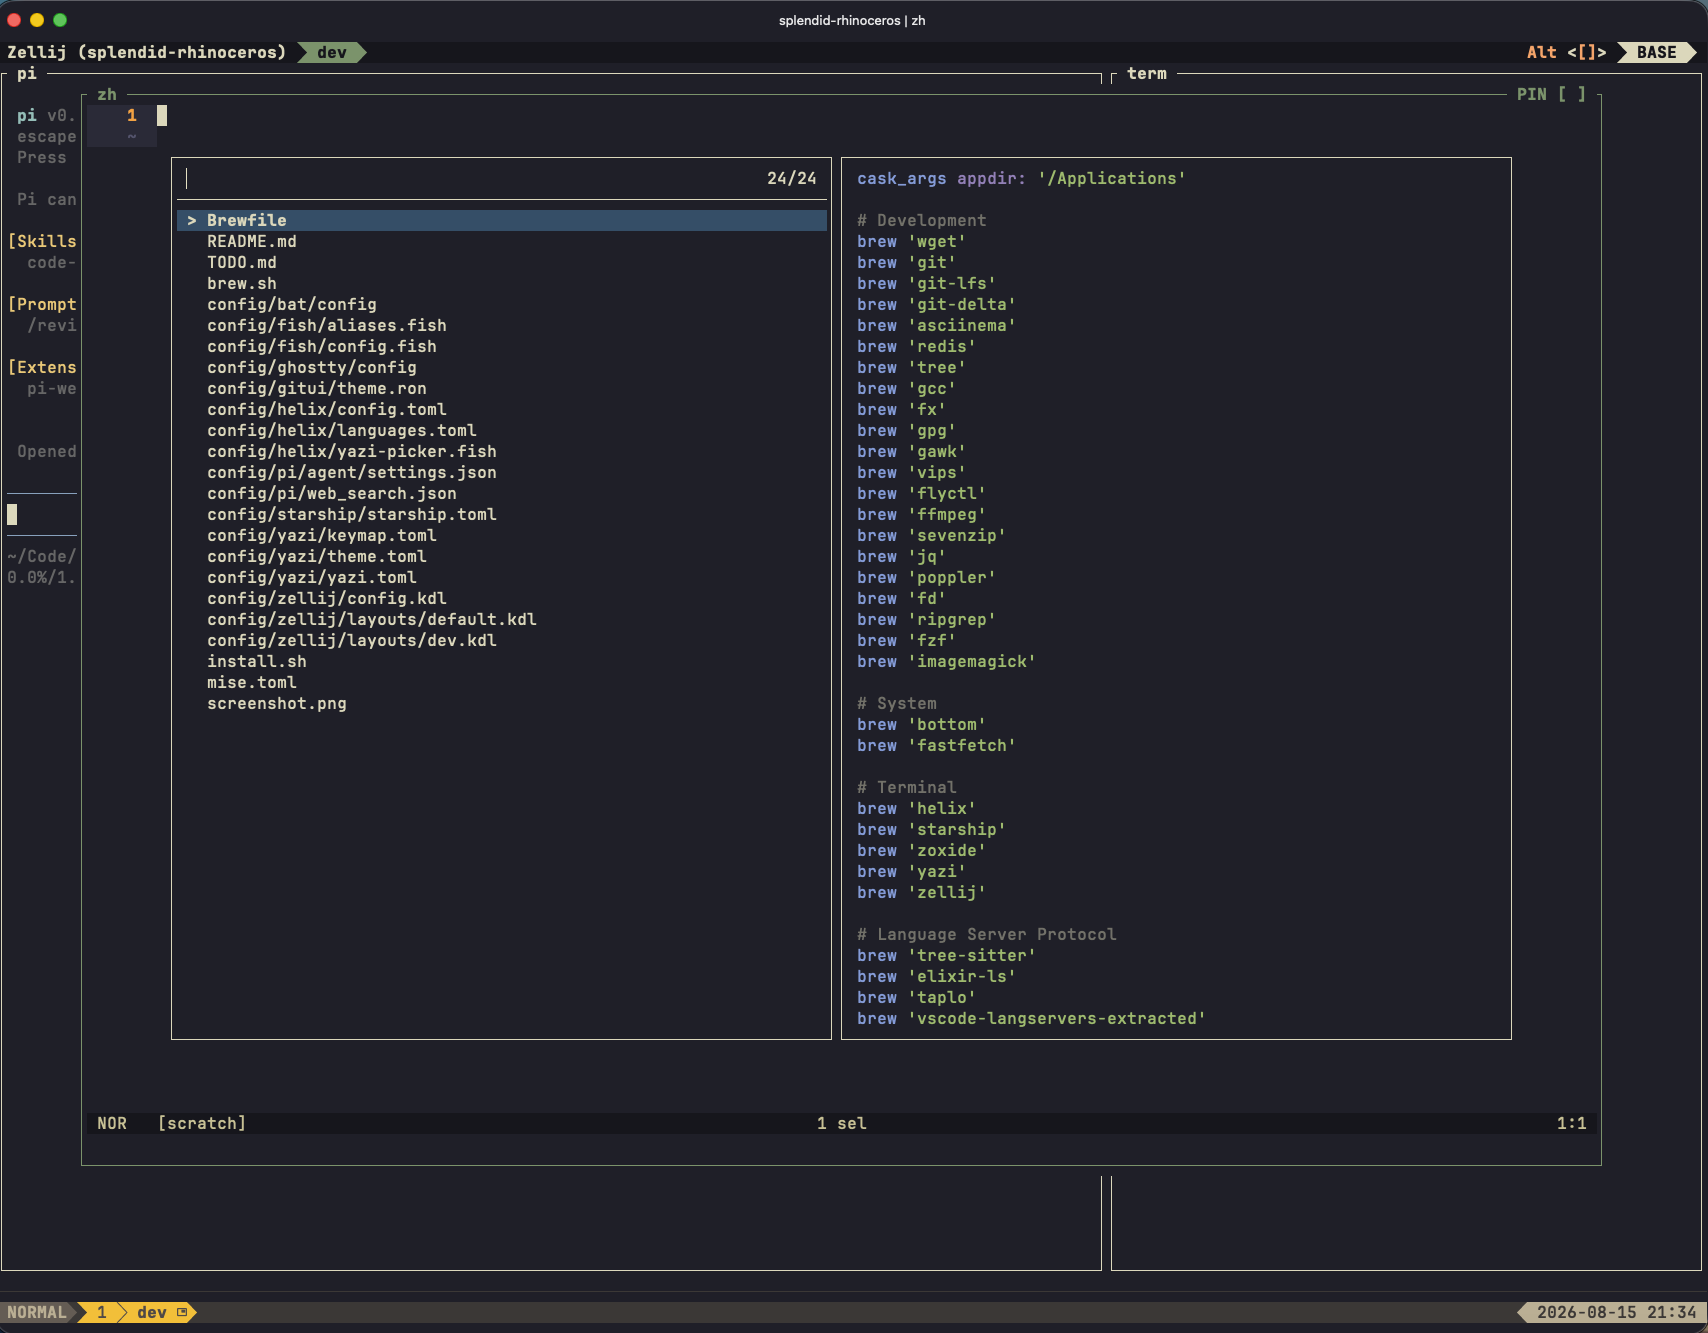
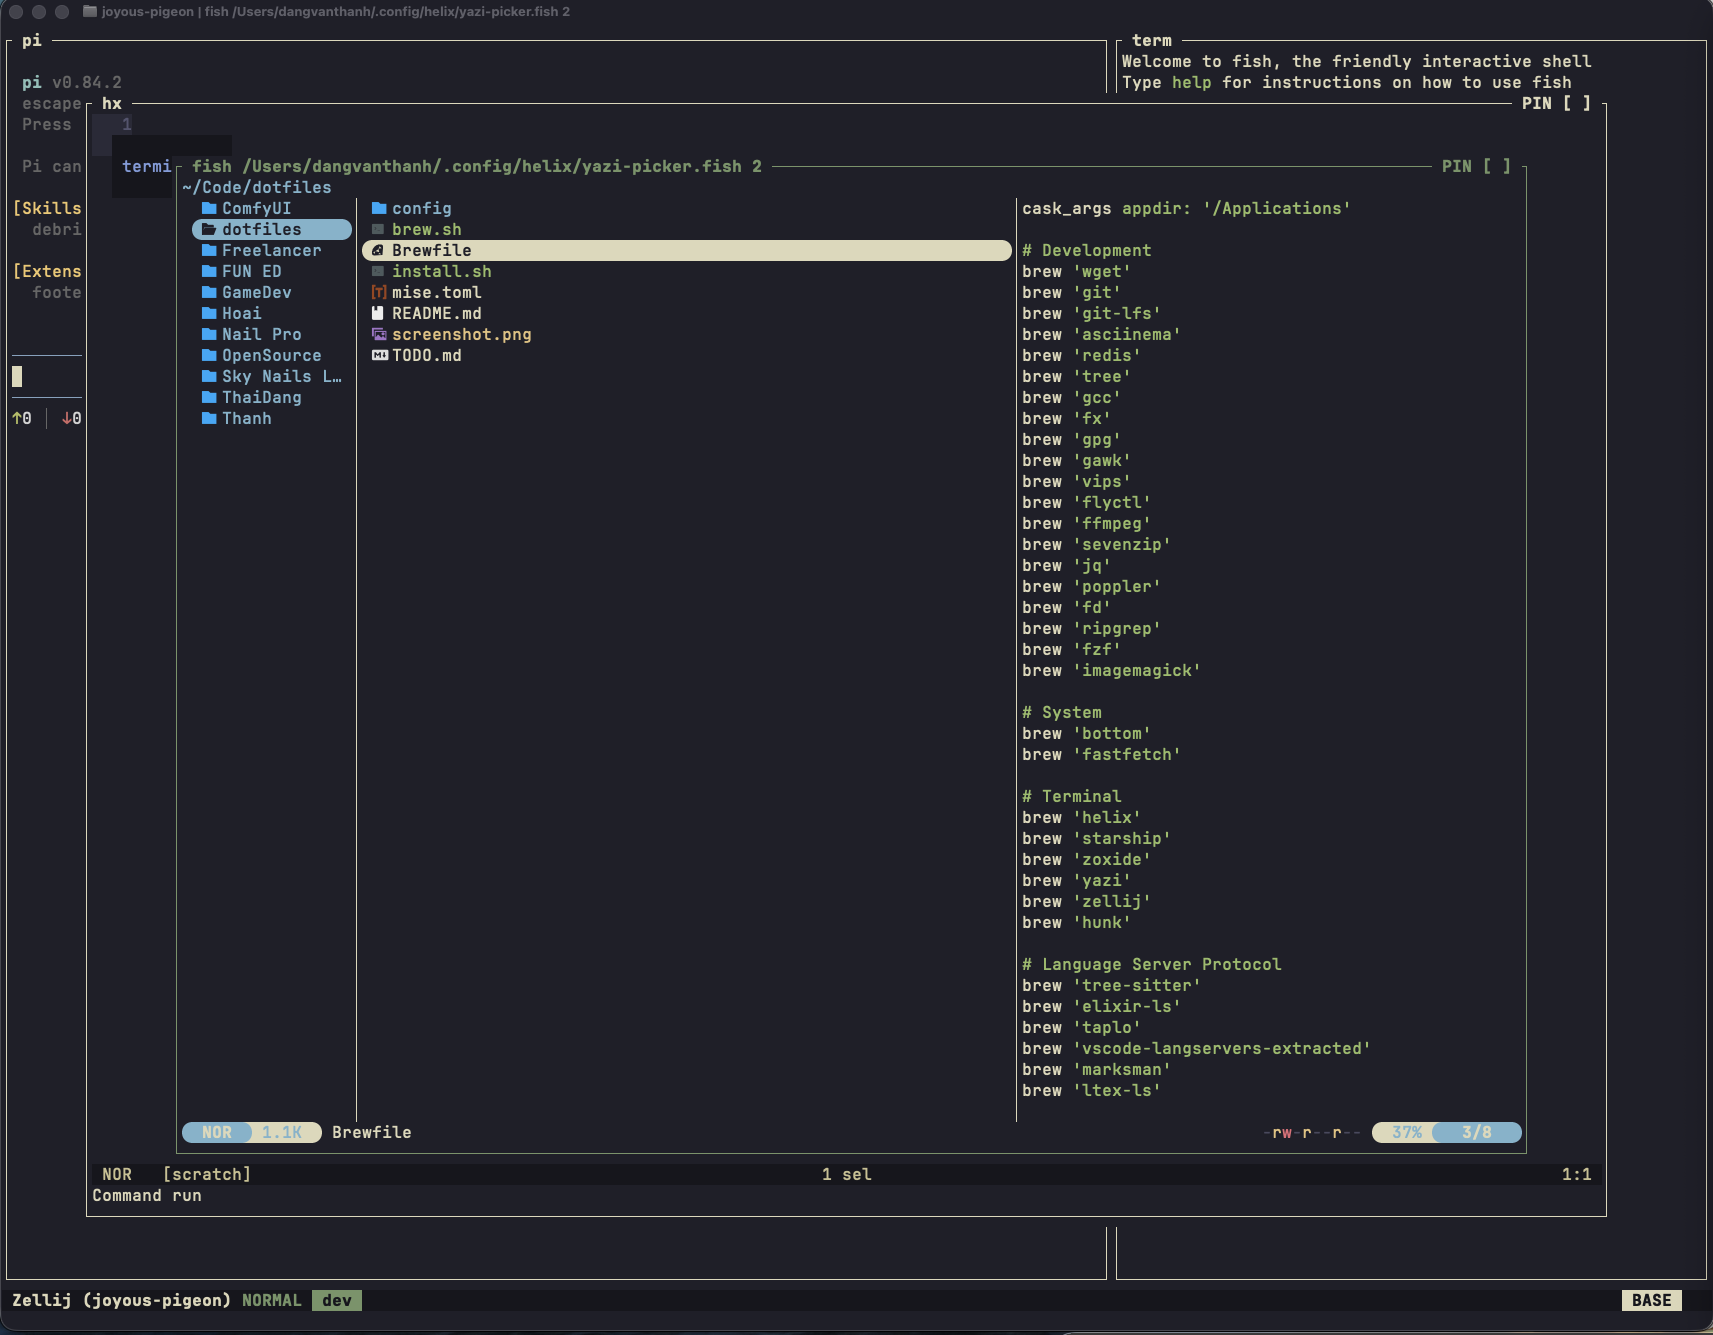
chore: add custom footer for pi

diff --git a/config/pi/agent/extensions/footer.ts b/config/pi/agent/extensions/footer.ts
@@ -1,0 +1,126 @@
+/**
+ * Footer - shows only what matters.
+ *
+ * Left: input | output | reason | cost | usage token | speed
+ * Right: provider model (thinking) • git:branch±
+ */
+
+import type { AssistantMessage } from "@earendil-works/pi-ai";
+import type { ExtensionAPI } from "@earendil-works/pi-coding-agent";
+import { truncateToWidth, visibleWidth } from "@earendil-works/pi-tui";
+
+export default function (pi: ExtensionAPI) {
+	pi.on("session_start", async (_event, ctx) => {
+		let thinkingLevel = "high";
+
+		pi.on("thinking_level_select", async (event) => {
+			thinkingLevel = event.level;
+		});
+
+		let lastSpeed: number | null = null;
+		let assistantStartTime: number | null = null;
+
+		pi.on("message_start", async (event) => {
+			if (event.message.role === "assistant") {
+				assistantStartTime = Date.now();
+			}
+		});
+
+		pi.on("message_end", async (event) => {
+			if (event.message.role === "assistant") {
+				const m = event.message as AssistantMessage;
+				const outputTokens = m.usage.output;
+				const elapsed = assistantStartTime ? (Date.now() - assistantStartTime) / 1000 : 0;
+
+				if (elapsed > 0.5 && outputTokens > 0) {
+					lastSpeed = Math.round(outputTokens / elapsed);
+				}
+				assistantStartTime = null;
+			}
+		});
+
+		ctx.ui.setFooter((tui, theme, footer) => {
+			const unsub = footer.onBranchChange(() => tui.requestRender());
+
+			return {
+				dispose: unsub,
+				invalidate() {},
+				render(width: number): string[] {
+					let input = 0,
+						output = 0,
+						cost = 0,
+						reasoning = 0;
+					for (const e of ctx.sessionManager.getBranch()) {
+						if (e.type === "message" && e.message.role === "assistant") {
+							const m = e.message as AssistantMessage;
+							input += m.usage.input;
+							output += m.usage.output;
+							cost += m.usage.cost.total;
+							reasoning += m.usage.reasoningTokens ?? 0;
+						}
+					}
+
+					const fmt = (n: number) => {
+						if (n >= 1_000_000) return `${(n / 1_000_000).toFixed(1)}M`;
+						if (n >= 1000) return `${(n / 1000).toFixed(1)}k`;
+						return `${n}`;
+					};
+
+					const sep = ` ${theme.fg("dim", "│")} `;
+
+					const contextUsage = ctx.getContextUsage();
+					const ctxLimit = contextUsage?.limit ?? ctx.model?.contextWindow ?? 0;
+					const ctxTokens = contextUsage?.tokens ?? 0;
+					let contextPct = "";
+					if (ctxLimit > 0) {
+						const pct = (ctxTokens / ctxLimit) * 100;
+						const color = pct > 80 ? "error" : pct > 50 ? "warning" : "success";
+						contextPct = `${theme.fg(color, `${pct.toFixed(1)}%`)}${theme.fg("dim", `/${fmt(ctxLimit)}`)}`;
+					}
+
+					const branch = footer.getGitBranch();
+
+					const arrowUp = `${theme.fg("success", "↑")}${theme.fg("text", fmt(input))}`;
+					const arrowDown = `${theme.fg("error", "↓")}${theme.fg("text", fmt(output))}`;
+					const reasoningStr =
+						reasoning > 0
+							? `${theme.fg("accent", "R")}${theme.fg("text", fmt(reasoning))}`
+							: "";
+					const costStr = theme.fg("warning", `$${cost.toFixed(3)}`);
+					const speedStr =
+						lastSpeed !== null ? theme.fg("mdLink", `${fmt(lastSpeed)} t/s`) : "";
+					const model = ctx.model;
+					const modelStr = theme.fg(
+						"accent",
+						model ? model.id.split("/").pop() || model.id : "no-model",
+					);
+					const providerStr = model?.provider ? theme.fg("muted", model.provider) : "";
+					const levelStr = theme.fg("muted", `(${thinkingLevel})`);
+					const gitStr = branch ? theme.fg("toolDiffAdded", ` ${branch}`) : "";
+
+					const leftParts = [
+						arrowUp,
+						arrowDown,
+						reasoningStr,
+						costStr,
+						contextPct,
+						speedStr,
+					].filter(Boolean);
+
+					const left = leftParts.join(sep);
+
+					const rightParts = [
+						providerStr ? `${providerStr} ${modelStr} ${levelStr}` : `${modelStr} ${levelStr}`,
+						gitStr,
+					].filter(Boolean);
+
+					const right = rightParts.join(` ${theme.fg("dim", "•")} `);
+					const padNeeded = Math.max(1, width - visibleWidth(left) - visibleWidth(right));
+					const pad = " ".repeat(padNeeded);
+
+					return [truncateToWidth(`${left}${pad}${right}`, width)];
+				},
+			};
+		});
+	});
+}
